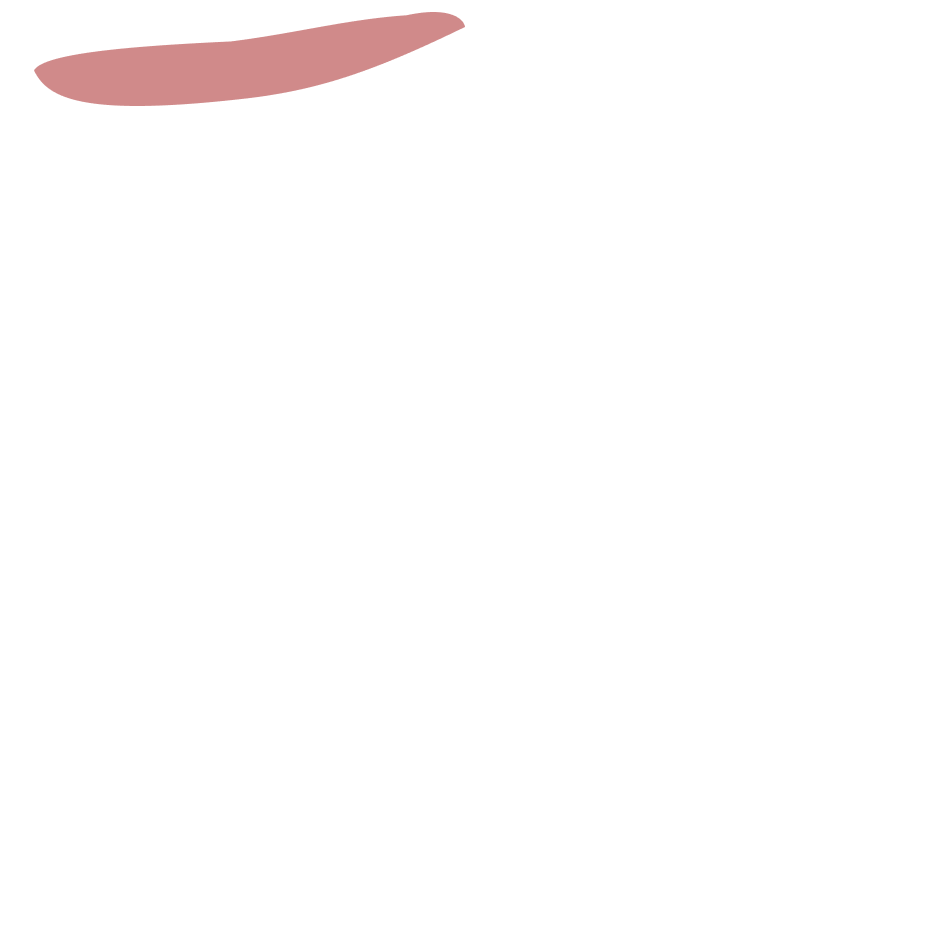
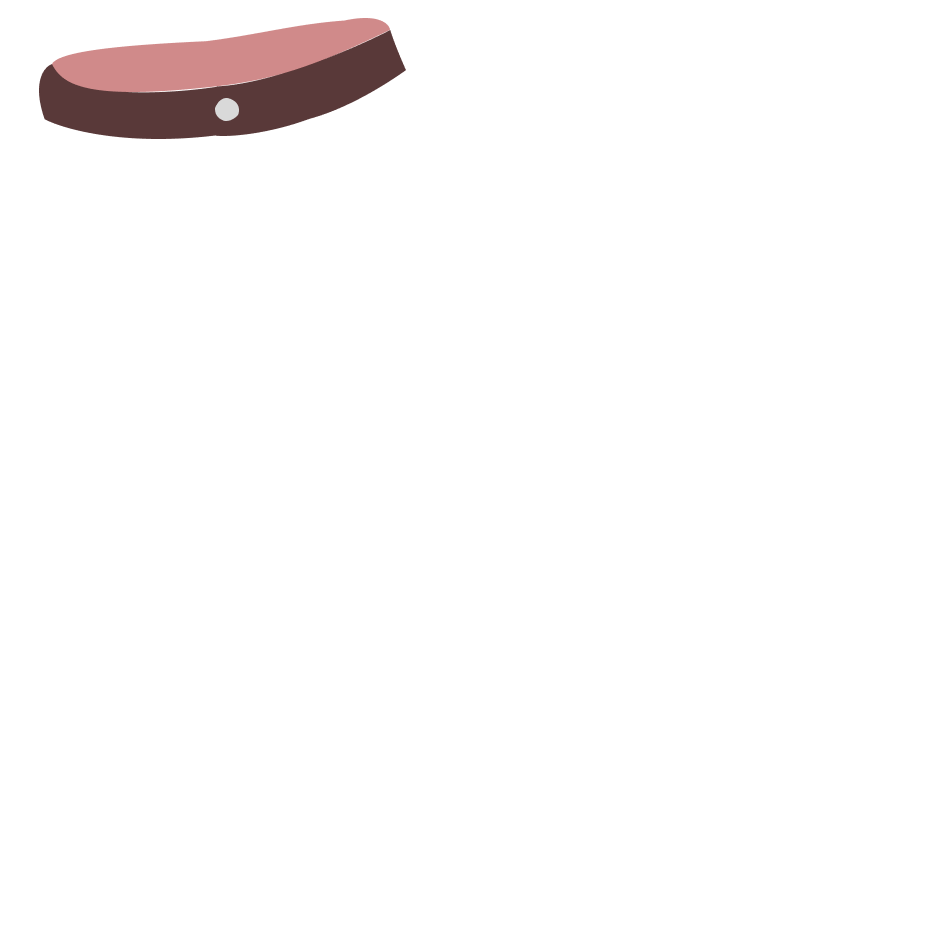
refactor/listen-color-a-cirumflex-game(Â): combine small pant parts into one layer for better UX

Changed region(s): [[0.0308, 0.0, 0.492, 0.1512], [0.3075, 0.0, 0.369, 0.0302]]

diff --git a/listen-color-a-cirumflex-game/src/scenes/PreloadScene.ts b/listen-color-a-cirumflex-game/src/scenes/PreloadScene.ts
@@ -39,15 +39,9 @@ export default class PreloadScene extends Phaser.Scene {
         
         this.load.image(TextureKeys.S2_Item_Outline, 'assets/images/S2/pant_outline.png');
         this.load.image(TextureKeys.S2_Item_1, 'assets/images/S2/pant_1.png');
-        this.load.image(TextureKeys.S2_Item_2, 'assets/images/S2/pant_2.png');
-        this.load.image(TextureKeys.S2_Item_3, 'assets/images/S2/pant_3.png');
         this.load.image(TextureKeys.S2_Item_4, 'assets/images/S2/pant_4.png');
-        this.load.image(TextureKeys.S2_Item_5, 'assets/images/S2/pant_5.png');
-        this.load.image(TextureKeys.S2_Item_6, 'assets/images/S2/pant_6.png');
-        this.load.image(TextureKeys.S2_Item_7, 'assets/images/S2/pant_7.png');
         this.load.image(TextureKeys.S2_Item_8, 'assets/images/S2/pant_8.png');
         this.load.image(TextureKeys.S2_Item_9, 'assets/images/S2/pant_9.png');
-        this.load.image(TextureKeys.S2_Item_10, 'assets/images/S2/pant_10.png');
         this.load.image(TextureKeys.S2_Text_Item,'assets/images/S2/text_item.png');
 
         // - Nút màu
